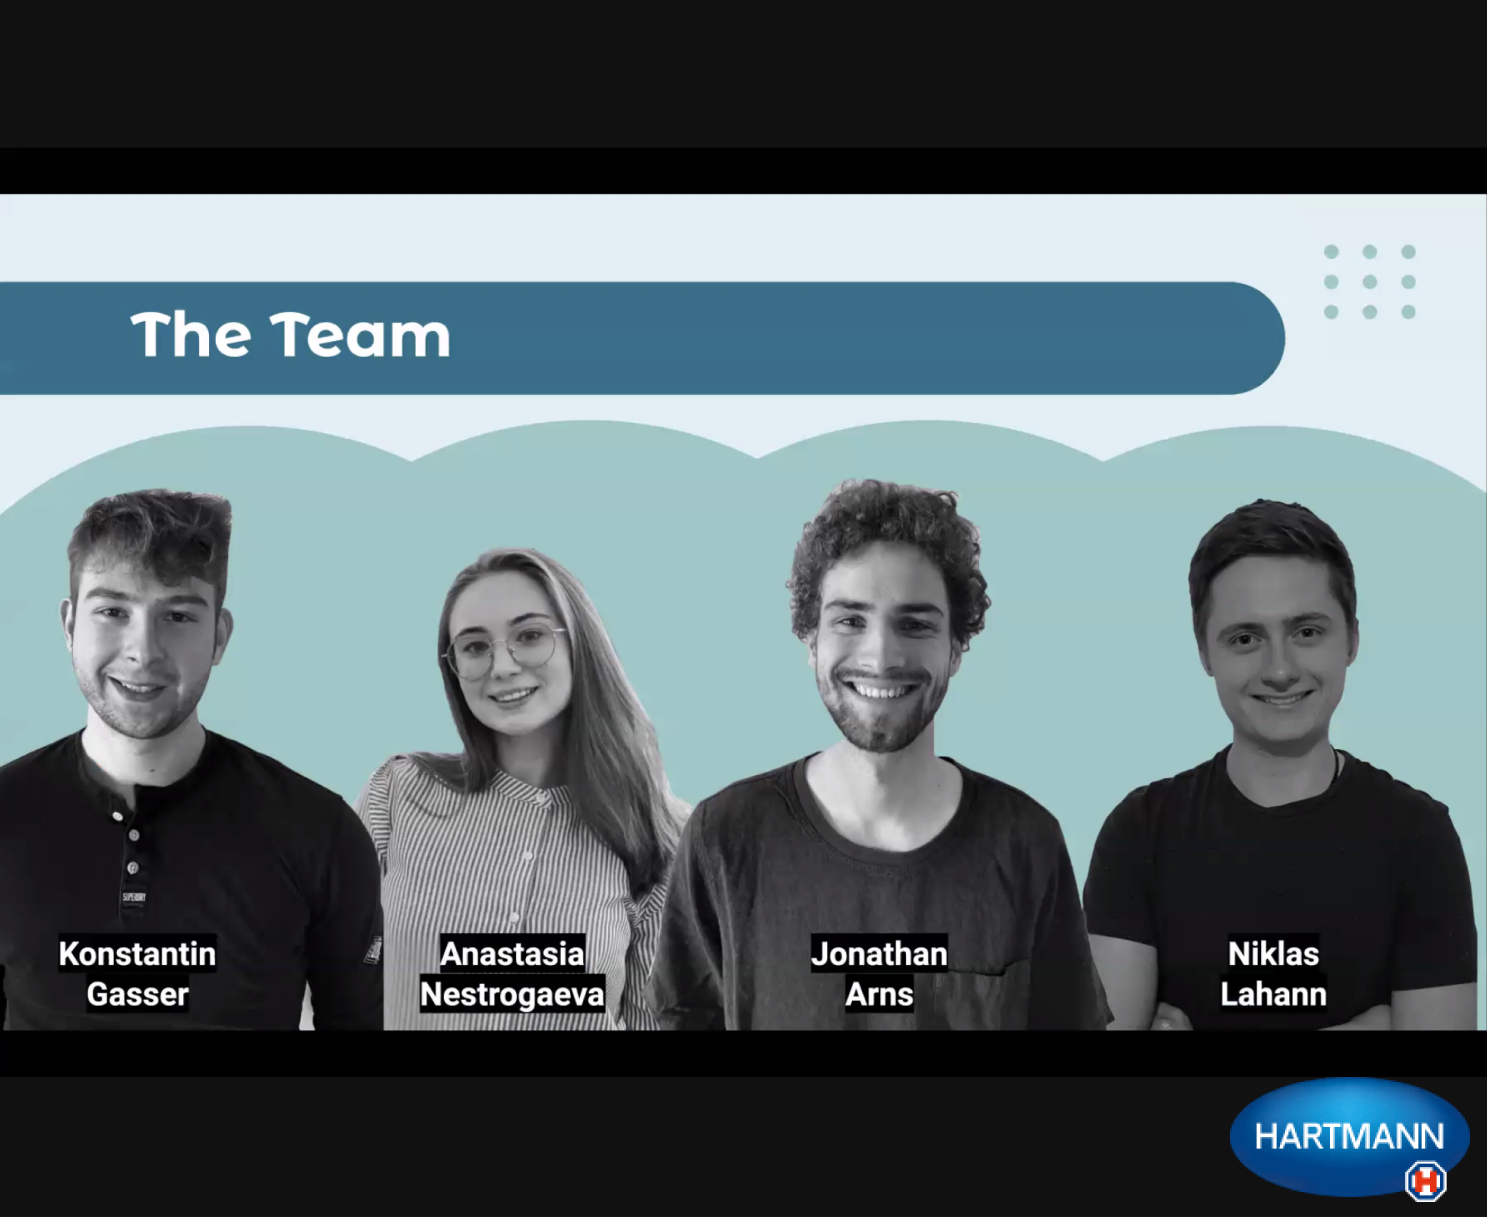
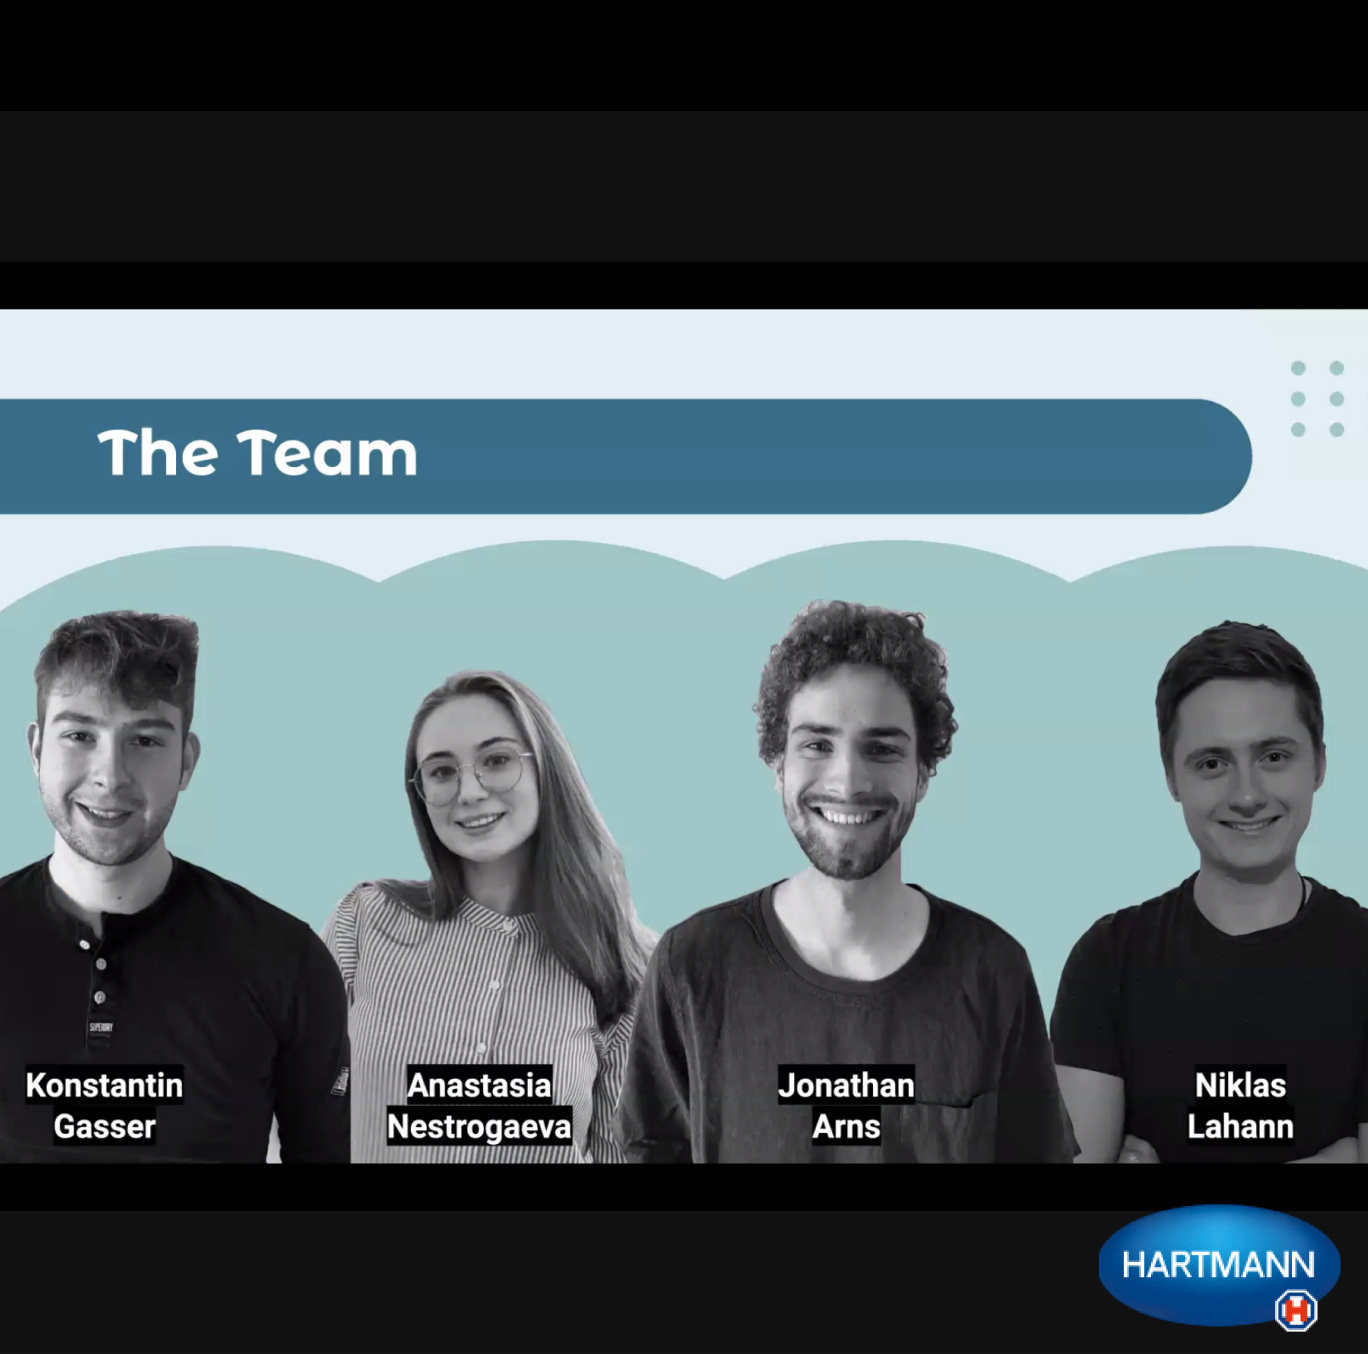
pics

diff --git a/projects.html b/projects.html
@@ -29,7 +29,7 @@ works:
     link_to: projects/leeroy
     klass: 2019/2020 GDIP
     desc: Partner University - University of Tartu | GDIP Program 2019/2020
-  - image: images/hartmann.jpg
+  - image: images/hartmann.png
     title: CareSense
     link_to: projects/hartmann
     klass: 2020/2021 GDIP
@@ -39,7 +39,7 @@ works:
     link_to: projects/afb
     klass: 2020/2021 GDIP
     desc: Partner University - University of Tartu | GDIP Program 2020/2021
-  - image: images/tartu.jpg
+  - image: images/tartu.png
     title: Tartu-2024
     link_to: projects/tartu
     klass: 2020/2021 GDIP
